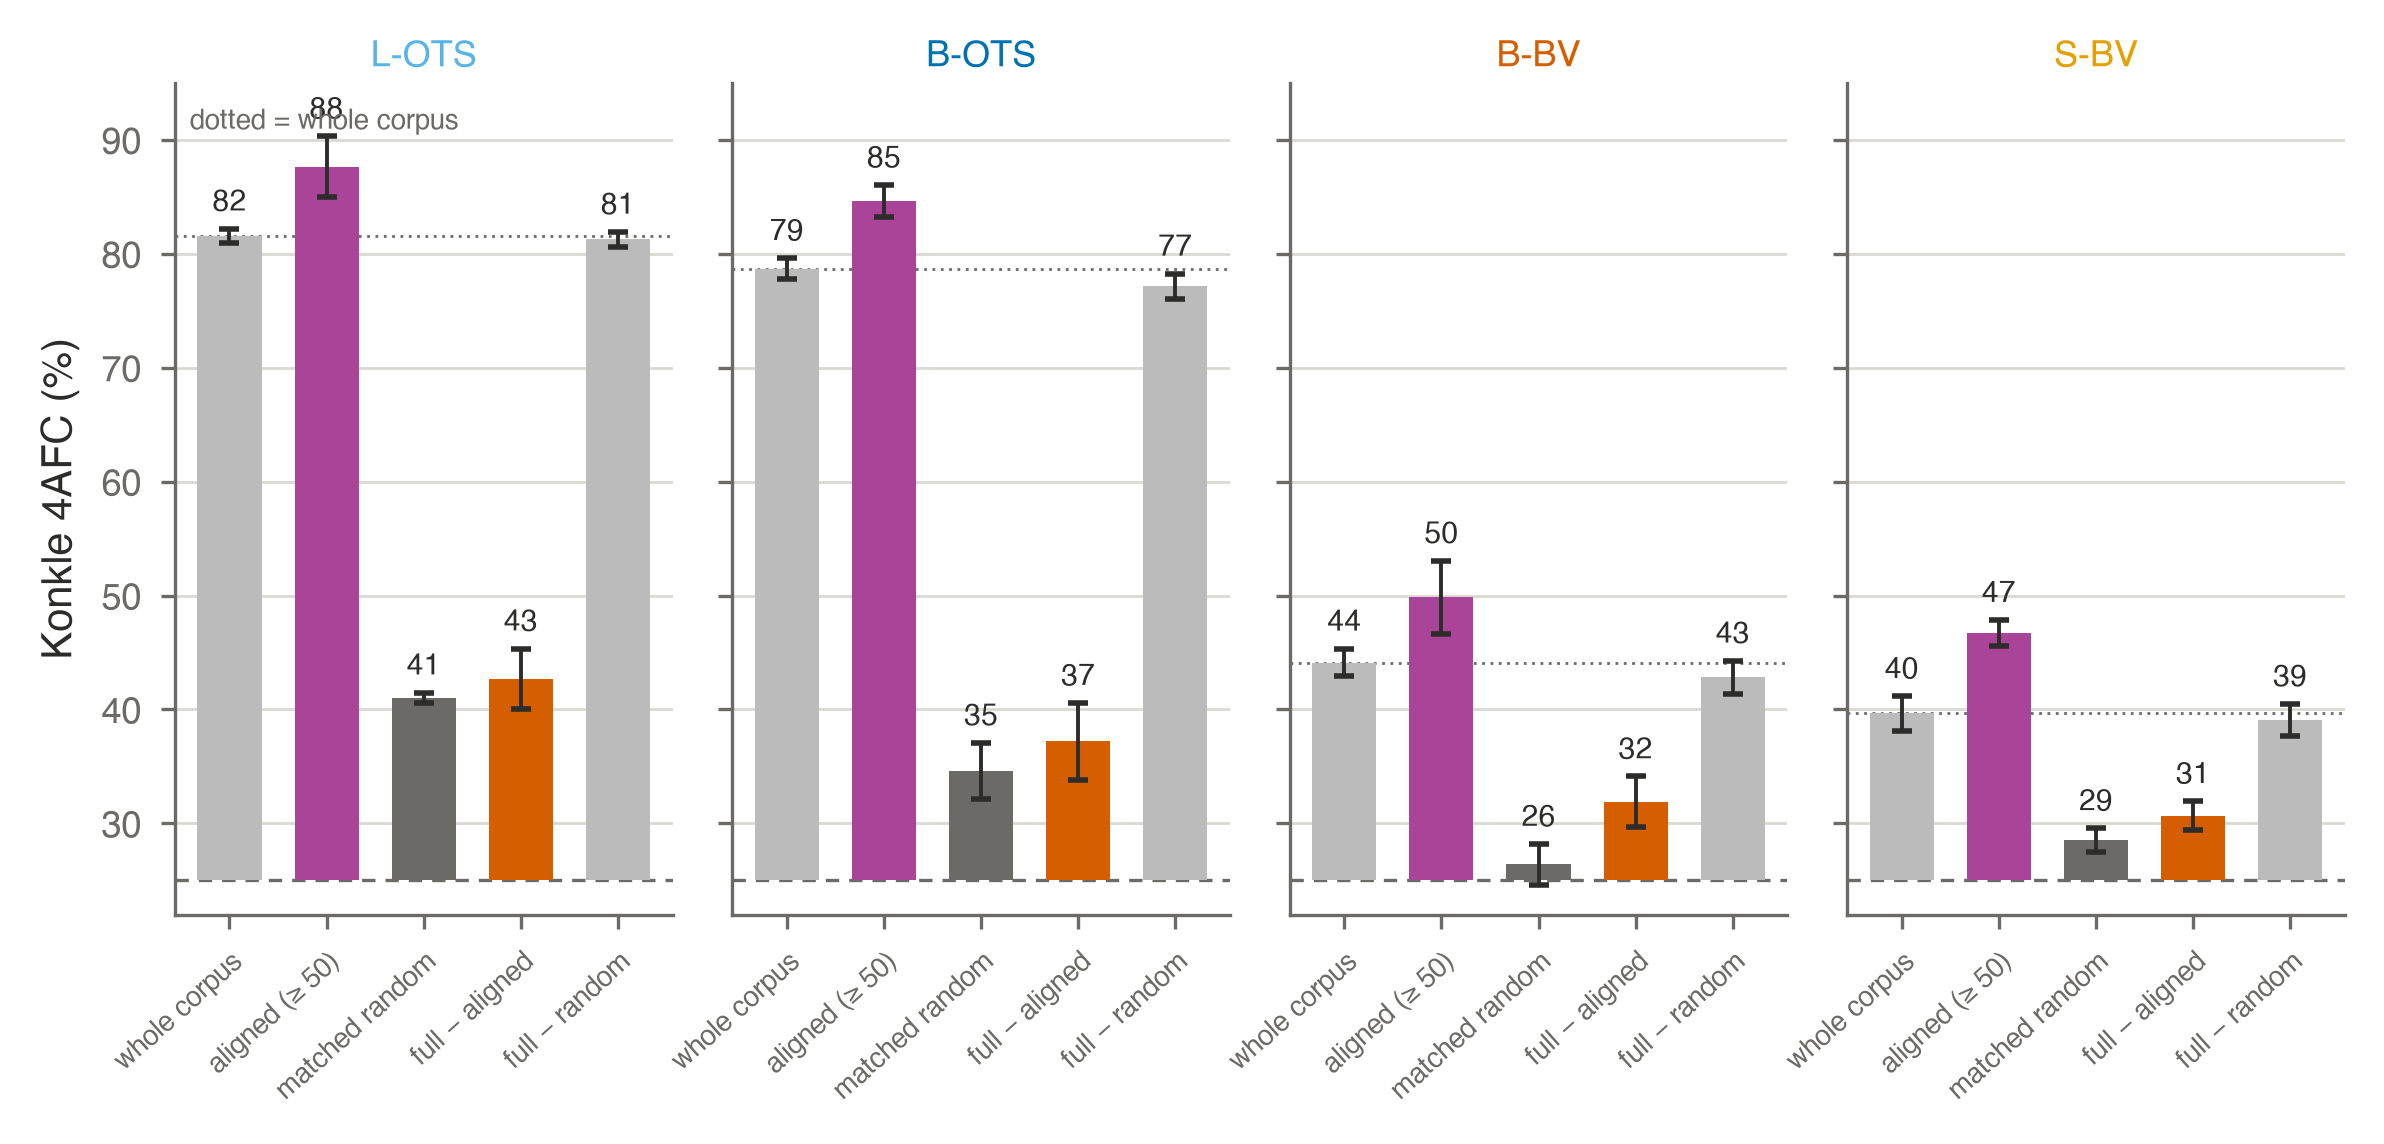
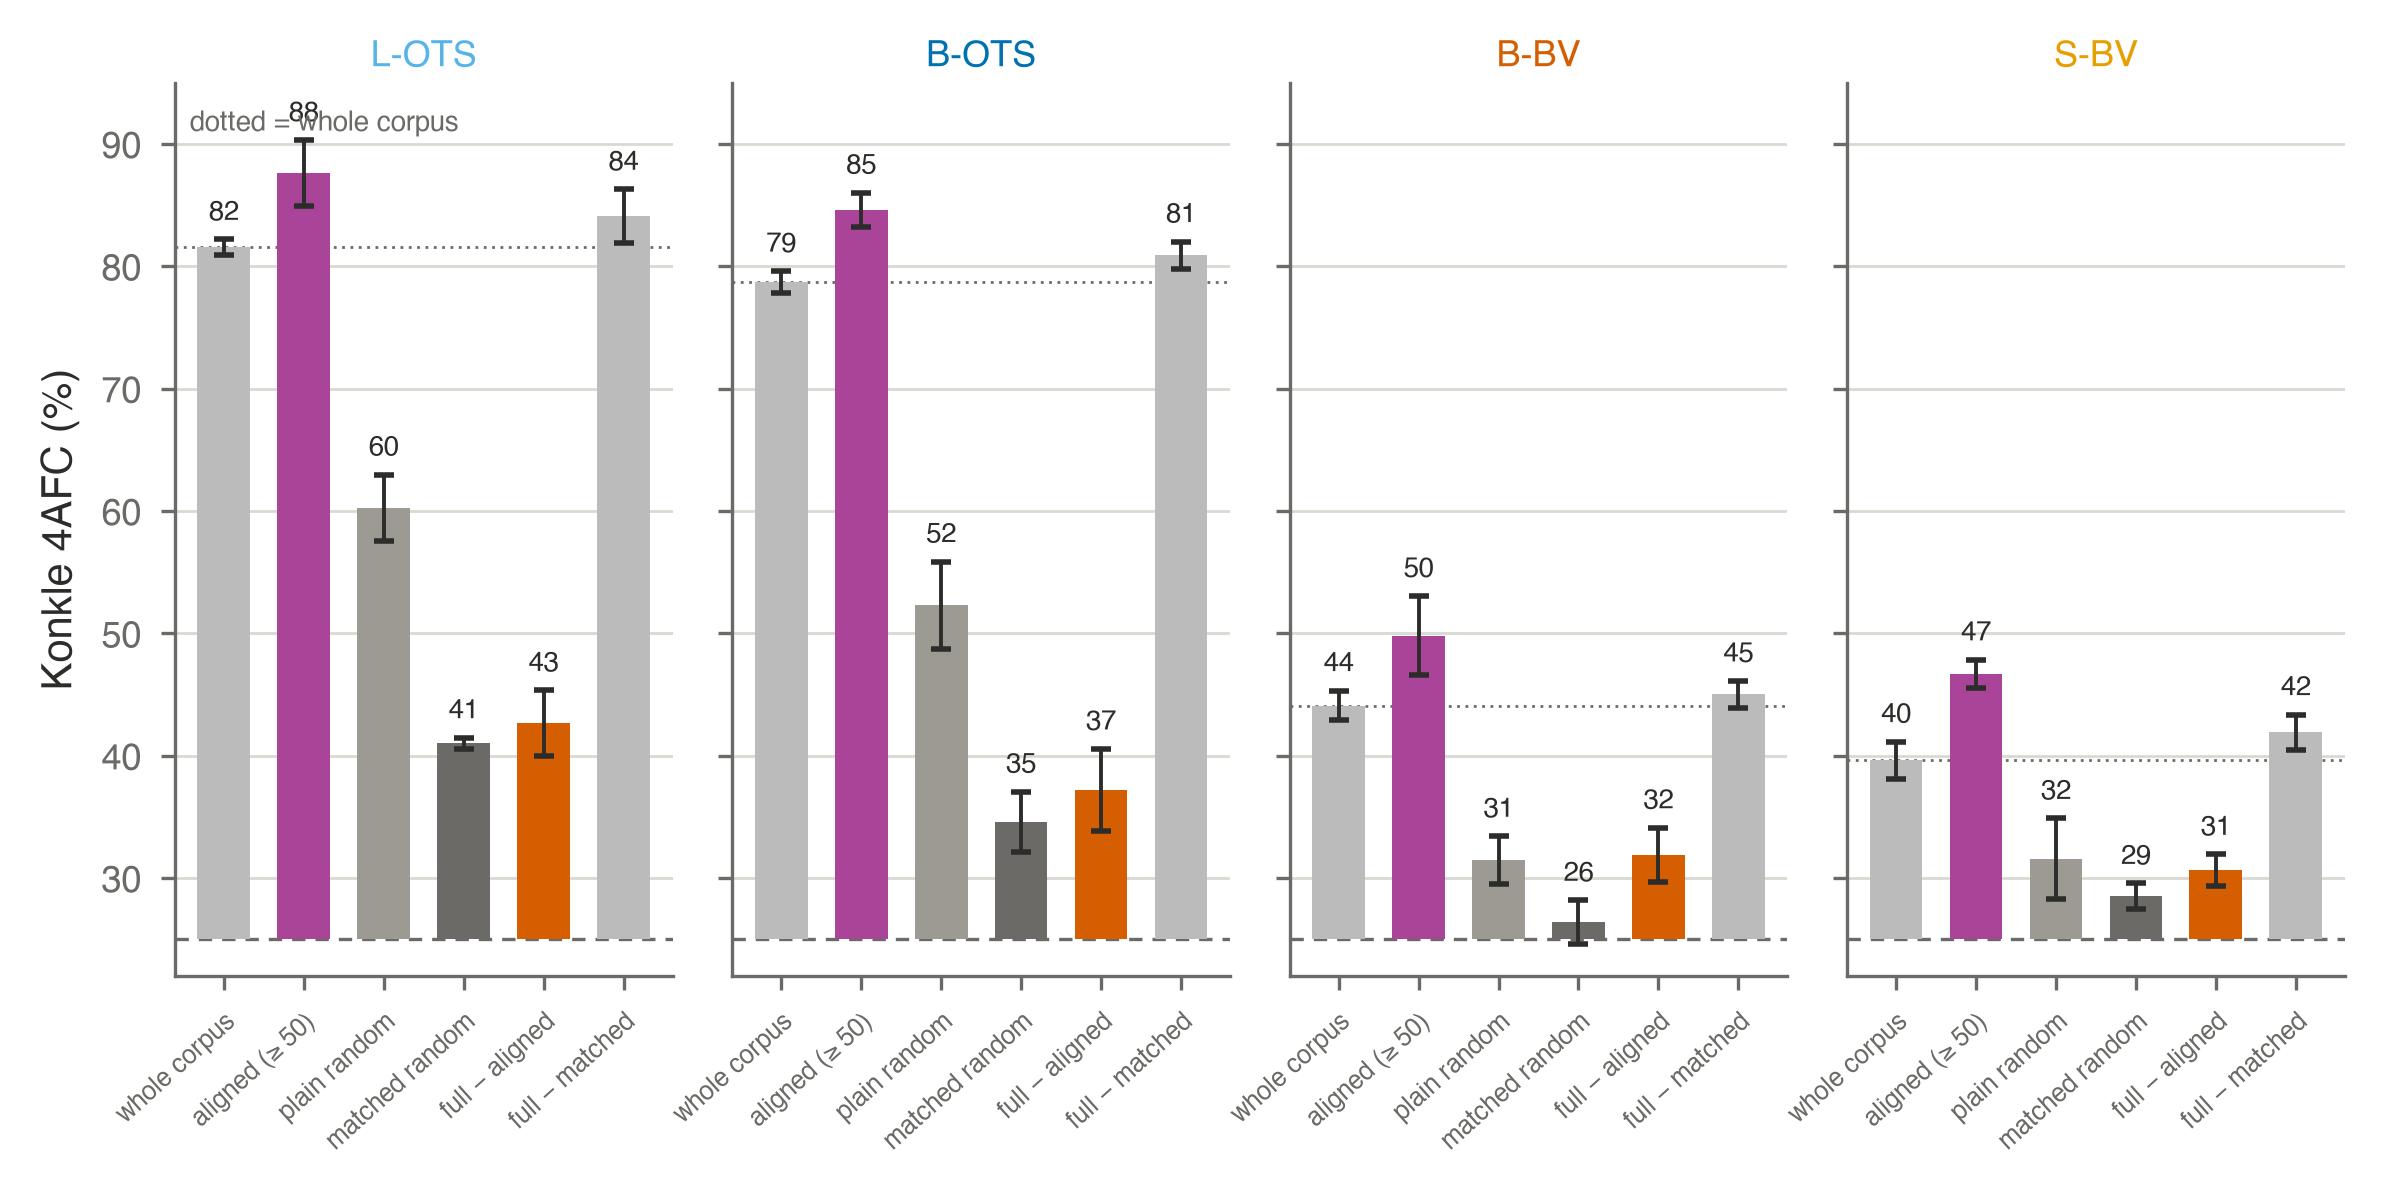
figS_alignment_controls: six arms, adding plain-random and full-minus-matched
The two round-2 arms complete both contrasts. Among the 172k-pair arms, aligned (87.6 for
L-OTS) > plain random (60.3) > matched random (41.0): matched-unaligned pairs -- a target
noun spoken while its referent is judged absent -- train WORSE than a naive draw of the
same size, so the matching is not merely equating exposure, it is selecting actively
misleading pairs. Among the 1.51M removal arms, dropping the aligned set costs almost
everything (42.7) while dropping the matched-unaligned set HELPS (84.1 vs 81.6 whole
corpus), for every encoder.

Bars are ordered so the two contrasts read left to right: what 172k pairs buy on their own,
then what removing 172k costs. Ordering the 172k arms aligned > plain > matched also puts
the graded selection effect in one glance.

diff --git a/figures/figS_alignment_controls.py b/figures/figS_alignment_controls.py
@@ -8,11 +8,16 @@ highest-rated pairs -- a subset of the same set (align_170000 is 170,000 of thes
 dropping 1,782 of the 33,993 tied at exactly 50).
   base            the whole corpus
   aligned-only    train on A alone
-  matched-random  |A| pairs drawn to match A's joint (eval-noun x utterance-length)
-                  distribution, so eval-noun exposure is equated (31,047 vs 30,946 pairs;
-                  a plain random draw of that size has only 12,906)
+  plain random    |A| pairs drawn uniformly -- the naive size control
+  matched-random  |A| NON-aligned pairs drawn to match A's joint (eval-noun x
+                  utterance-length) distribution, so eval-noun exposure is equated
+                  (30,205 vs 30,303 pairs; a plain draw of that size has only 12,328)
   full - aligned  the corpus with A removed
-  full - random   the corpus with a random |A| removed (the removal control)
+  full - matched  the corpus with the matched-unaligned set removed (the removal control)
+
+The two new arms close the loop: matched-unaligned pairs -- a target noun spoken while its
+referent is judged absent -- train WORSE than a plain random draw of the same size, and
+removing them from the corpus HELPS, while removing the aligned pairs collapses learning.
 """
 import sys, numpy as np
 sys.path.insert(0, str(__import__("pathlib").Path(__file__).parent))
@@ -21,13 +26,16 @@ import matplotlib.pyplot as plt
 
 ENC = [("dinov3l", "L-OTS", T.OTHER), ("dinov3b", "B-OTS", T.FREE),
        ("vitb_bv", "B-BV", T.INDOM), ("vits_bv", "S-BV", T.INDOM2)]
+# Six arms, ordered so the two contrasts read left to right: what the aligned pairs buy on
+# their own (bars 2-4, all 172k) and what removing them costs (bars 5-6, all 1.51M).
 ARMS = [("base", "whole corpus", T.NEUTRAL),
         ("alignedonly", "aligned (≥ 50)", T.ORACLE),
+        ("rand172k", "plain random", "#9c9a92"),
         ("matchrand", "matched random", T.SUB),
         ("minusaligned", "full − aligned", T.INDOM),
-        ("minusrand", "full − random", T.NEUTRAL)]
+        ("minusmatch", "full − matched", T.NEUTRAL)]
 
-fig, axes = plt.subplots(1, 4, figsize=(T.W2, 2.7), sharey=True,
+fig, axes = plt.subplots(1, 4, figsize=(T.W2, 2.9), sharey=True,
                          gridspec_kw=dict(wspace=0.12))
 xs = np.arange(len(ARMS))
 for a, (enc, key, col) in zip(axes, ENC):
@@ -36,13 +44,13 @@ for a, (enc, key, col) in zip(axes, ENC):
         f = D.family(f"F_{enc}_{arm if arm != 'base' else 'base'}")
         a.bar(i, f["mean"] - 25, bottom=25, width=0.66, color=acol, zorder=3,
               yerr=f["sd"], error_kw=dict(elinewidth=0.7, capsize=1.8, ecolor=T.INK))
-        a.text(i, f["mean"] + f["sd"] + 1.6, f"{f['mean']:.0f}", ha="center", fontsize=5.4,
+        a.text(i, f["mean"] + f["sd"] + 1.6, f"{f['mean']:.0f}", ha="center", fontsize=5.0,
                color=T.INK)
         vals.append(f["mean"])
     a.axhline(25, color=T.SUB, lw=0.6, ls=(0, (4, 3)), zorder=2)
     a.axhline(vals[0], color=T.SUB, lw=0.5, ls=(0, (1, 2)), zorder=2)
     a.set_xticks(xs)
-    a.set_xticklabels([l for _, l, _ in ARMS], fontsize=5.0, rotation=42, ha="right",
+    a.set_xticklabels([l for _, l, _ in ARMS], fontsize=4.6, rotation=42, ha="right",
                       rotation_mode="anchor")
     a.set_title(key, fontsize=6.5, color=col, pad=3)
     a.set_ylim(22, 95)
